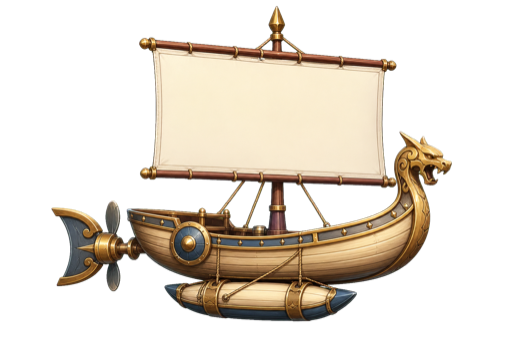
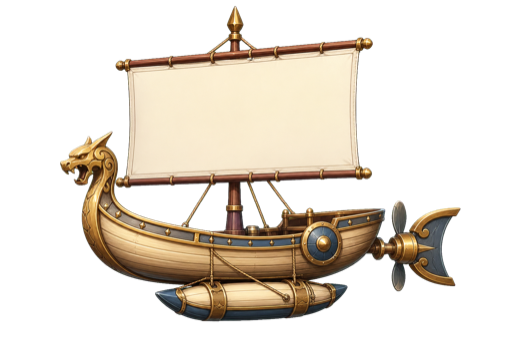
fix: bake ship variant orientation

Changed region(s): [[0.0938, 0.0293, 0.9062, 0.9677]]

diff --git a/src/render/canvasRenderer.js b/src/render/canvasRenderer.js
@@ -202,13 +202,7 @@ export class CanvasRenderer {
 
     this.ctx.save();
     if (image?.complete && image.naturalWidth > 0) {
-      if (this.config.RENDER.FLIPPED_SHIP_VARIANT_INDICES.includes(variantIndex % this.shipImages.length)) {
-        this.ctx.translate(left + this.config.PLAYFIELD.SHIP_WIDTH, top);
-        this.ctx.scale(-1, 1);
-        this.ctx.drawImage(image, 0, 0, this.config.PLAYFIELD.SHIP_WIDTH, this.config.PLAYFIELD.SHIP_HEIGHT);
-      } else {
-        this.ctx.drawImage(image, left, top, this.config.PLAYFIELD.SHIP_WIDTH, this.config.PLAYFIELD.SHIP_HEIGHT);
-      }
+      this.ctx.drawImage(image, left, top, this.config.PLAYFIELD.SHIP_WIDTH, this.config.PLAYFIELD.SHIP_HEIGHT);
     } else {
       this.drawFallbackShip(left, top, ship.y);
     }

diff --git a/src/config.js b/src/config.js
@@ -256,7 +256,6 @@ export const GAME_CONFIG = {
     SHIP_BADGE_OFFSET_Y: 28,
     SHIP_NOSE_WIDTH: 16,
     SHIP_VARIANT_PATHS: ["/ships/ship-base-1.png", "/ships/ship-base-2.png", "/ships/ship-base-3.png"],
-    FLIPPED_SHIP_VARIANT_INDICES: [2],
     SHIP_FLAG_OFFSET_X: -4,
     SHIP_FLAG_OFFSET_Y: -18,
     SHIP_FLAG_WIDTH: 42,